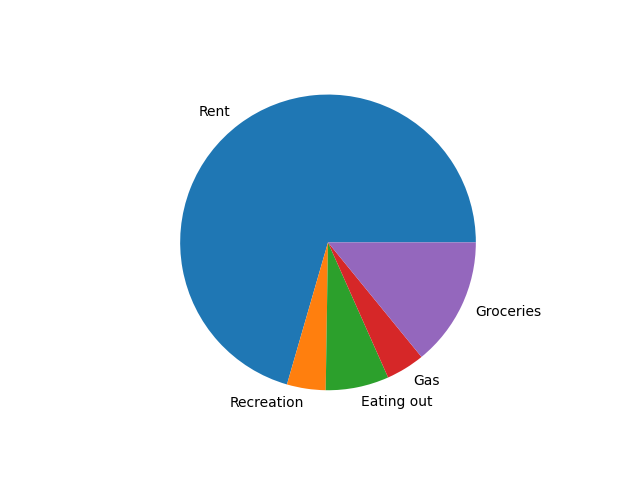
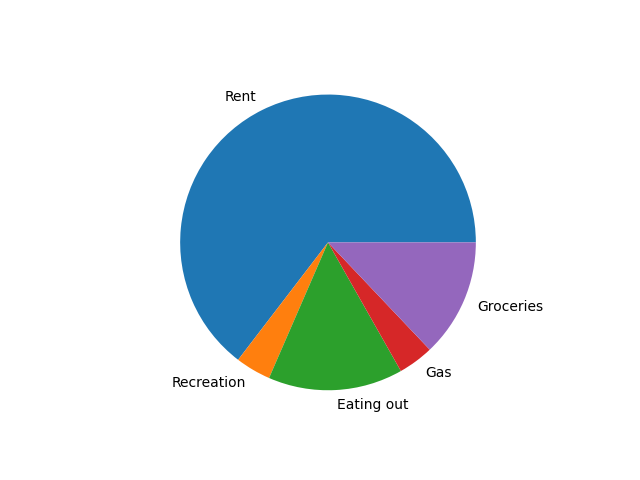
More updates

Changed region(s): [[0.25, 0.5, 0.7188, 0.875], [0.3125, 0.1875, 0.4062, 0.25], [0.75, 0.625, 0.8438, 0.6562]]

diff --git a/free_coding_project/pages/analysis.html b/free_coding_project/pages/analysis.html
@@ -51,8 +51,8 @@ html,body,h1,h2,h3,h4,h5,h6 {font-family: "Roboto", sans-serif;}
   <div class="w3-row w3-padding-64">
     <div class="w3-twothird w3-container">
       <h1 class="w3-text-teal">Analysis</h1>
-      <p>Lorem ipsum dolor sit amet, consectetur adipisicing elit, sed do eiusmod tempor incididunt ut labore et dolore magna aliqua. Ut enim ad minim veniam, quis nostrud exercitation ullamco laboris nisi ut aliquip ex ea commodo consequat. Lorem ipsum
-        dolor sit amet, consectetur adipisicing elit, sed do eiusmod tempor incididunt ut labore et dolore magna aliqua. Ut enim ad minim veniam, quis nostrud exercitation ullamco laboris nisi ut aliquip ex ea commodo consequat.</p>
+      <p>Pie Chart: Spending Categories</p>
+      <img src="/free_coding_project/data_vis/expense_pie.png" alt="Pie chart representing the portion of budget spent in different categories">
     </div>
   </div>
 

diff --git a/free_coding_project/run.py b/free_coding_project/run.py
@@ -27,10 +27,10 @@ if __name__ == "__main__":
     my_budget.addExpense(30, "Gas", datetime(2025, 4, 8))
     my_budget.addExpense(24, "Eating out", datetime(2025, 4, 9))
     my_budget.addExpense(10, "Eating out", datetime(2025, 4, 7))
-    my_budget.addExpense(15, "Eating out", datetime(2025, 4, 8))
+    my_budget.addExpense(80, "Eating out", datetime(2025, 4, 8))
 
     # my_budget.plotExpenses()
-    my_budget.exp_category_perc()
+    my_budget.pieExpences()
 
     # print(free_checking)
     # trans1 = Transaction("Walmart", 200, free_checking, "Groceries", "hahaha")

diff --git a/free_coding_project/budget.py b/free_coding_project/budget.py
@@ -63,7 +63,7 @@ class Budget:
         plt.title('Expense overview')
         plt.savefig("data_vis/expense_plot.png")
 
-    def exp_category_perc(self):
+    def pieExpences(self):
         cat_values = {}
         # sum_expenses = {}
         total_expense = 0
@@ -90,9 +90,6 @@ class Budget:
         
         plt.pie(cat_perc, labels=categories)
         plt.savefig("data_vis/expense_pie.png")
-
-    def pieExpences(self):
-        pass
 
     def plotExpenseDistribution(self):
         pass
